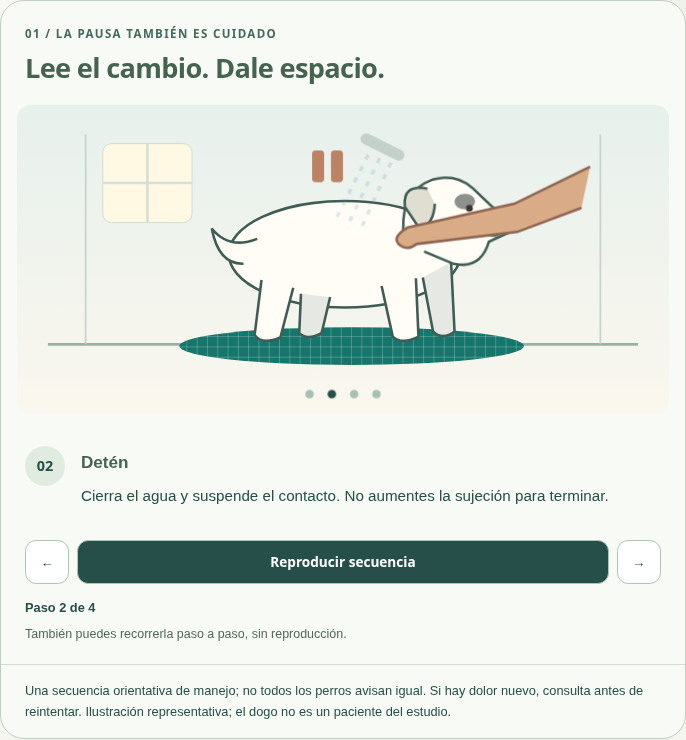
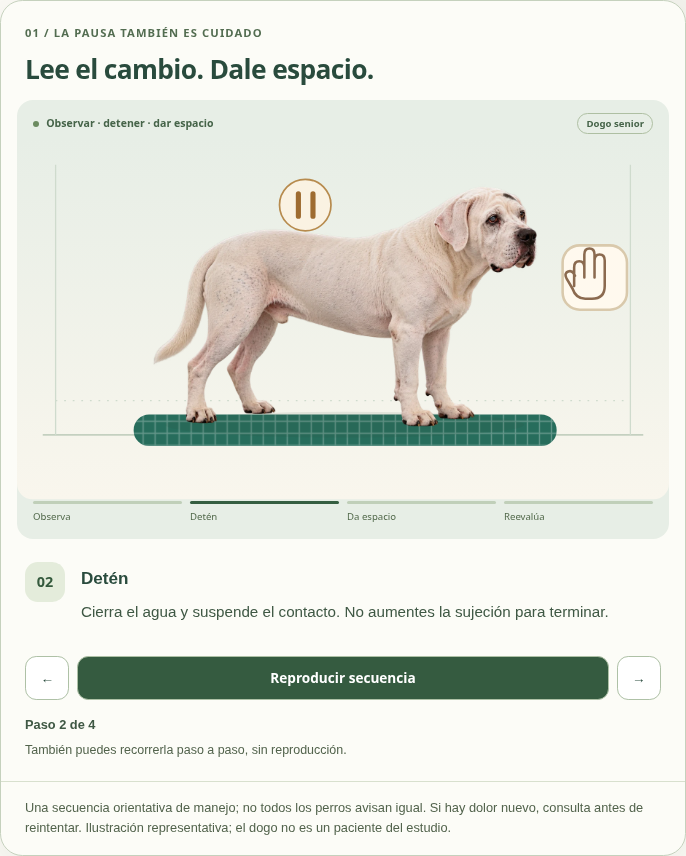
fix(content): mostrar dogo senior y mejorar animaciones del baño

diff --git a/briefings/briefing-banar-perro-viejo-movilidad-reducida.md b/briefings/briefing-banar-perro-viejo-movilidad-reducida.md
@@ -32,7 +32,7 @@ seoTitle: "Cómo bañar a un perro viejo con movilidad reducida"
 metaDescription: "Cómo adaptar el baño de un perro mayor con movilidad reducida, reconocer cuándo parar y elegir alternativas de aseo con ayuda veterinaria."
 pilar: "higiene-hogar-perros-senior"
 keywordPrincipal: "cómo bañar a un perro viejo"
-heroImage: "/images/blog/banar-perro-viejo-movilidad-reducida/bano-dogo-argentino-senior-antideslizante.webp"
+heroImage: "/images/blog/banar-perro-viejo-movilidad-reducida/bano-dogo-argentino-senior-antideslizante-v2.webp"
 heroImageAlt: "Dogo argentino senior blanco, de orejas naturales y pequeña mancha gris sobre el ojo izquierdo, ilustrado de pie sobre una alfombra antideslizante dentro de una ducha a ras de suelo, siendo enjuagado con agua templada"
 status: "Publicado"
 datePublished: "2026-10-15"
@@ -248,24 +248,24 @@ datePublished: "2026-10-15"
 ## 8. GUÍA VISUAL — 3 PROMPTS DE IMAGEN
 
 > [!IMPORTANT]
-> **Sujeto fijo en los 3 prompts:** `dogo argentino senior blanco, orejas naturales, nariz negra, ojos marrones, pequeña mancha gris sobre el ojo izquierdo`. Debe nombrarse explícitamente en **cada uno** de los tres prompts, como sujeto ilustrativo, sin atribuirlo a los pacientes de la serie.
+> **Sujeto fijo en los 3 prompts:** `dogo argentino claramente anciano (13–14 años ilustrativos), pelaje blanco marfil fino, orejas naturales, nariz negra, ojos marrones con leve veladura, frente arrugada, belfos caídos y menor tono muscular, pequeña mancha gris sobre el ojo izquierdo`. Debe nombrarse explícitamente en **cada uno** de los tres prompts, como sujeto ilustrativo, sin atribuirlo a los pacientes de la serie.
 
 > [!WARNING]
 > **Restricción de contenido visual:** ninguna imagen debe mostrar al perro forcejeando, resbalando, con signos de angustia evidente ni sujetado con fuerza. Se representa la **técnica correcta**, en la que el perro está estable y tranquilo.
 
 ### Imagen 1 — Resolutiva (hero)
-*   **Nombre de archivo SEO:** `bano-dogo-argentino-senior-antideslizante.webp`
-*   **Prompt visual:** Plano medio lateral, cámara a la altura del perro | Cuarto de baño doméstico real con ducha a ras de suelo y una esterilla antideslizante de goma bien visible bajo las patas | Un **dogo argentino senior blanco, orejas naturales, nariz negra, ojos marrones, pequeña mancha gris sobre el ojo izquierdo**, de pie y **estable**, siendo enjuagado con un chorro suave pegado al cuerpo por las manos de una mujer de unos 55 años, con una mano apoyada en su costado | Luz natural entrando por una ventana pequeña del baño, cálida y difusa | Profundidad de campo estrecha, foco en las patas sobre la esterilla | Textura de la goma antideslizante y del pelaje mojado | Estilo fotoperiodístico instructivo, perro tranquilo, cero apariencia de banco de imágenes.
+*   **Nombre de archivo SEO:** `bano-dogo-argentino-senior-antideslizante-v2.webp`
+*   **Prompt visual:** Plano medio lateral, cámara a la altura del perro | Cuarto de baño doméstico real con ducha a ras de suelo y una esterilla antideslizante de goma bien visible bajo las patas | Un **dogo argentino claramente anciano (13–14 años ilustrativos), pelaje blanco marfil fino, orejas naturales, nariz negra, ojos marrones con leve veladura, frente arrugada, belfos caídos y menor tono muscular, pequeña mancha gris sobre el ojo izquierdo**, de pie y **estable**, siendo enjuagado con un chorro suave pegado al cuerpo por las manos de una mujer de unos 55 años, con una mano apoyada en su costado | Luz natural entrando por una ventana pequeña del baño, cálida y difusa | Profundidad de campo estrecha, foco en las patas sobre la esterilla | Textura de la goma antideslizante y del pelaje mojado | Estilo fotoperiodístico instructivo, perro tranquilo, cero apariencia de banco de imágenes.
 *   **Caption:** La esterilla antideslizante es la medida más importante del baño: un perro artrósico que resbala una vez puede tener dificultades de apoyo; no se afirma una duración de miedo.
 
 ### Imagen 2 — Educativa
-*   **Nombre de archivo SEO:** `aseo-por-zonas-perro-mayor-tumbado.webp`
-*   **Prompt visual:** Plano medio, cámara a ras de suelo | Salón doméstico, perro tumbado sobre una toalla extendida encima de su cama | El mismo **dogo argentino senior blanco, orejas naturales, nariz negra, ojos marrones, pequeña mancha gris sobre el ojo izquierdo**, tumbado y relajado mientras unas manos limpian con una toalla húmeda la zona de la pata delantera, **sin levantarlo ni moverlo de sitio** | Luz natural cálida de tarde | Profundidad de campo estrecha, foco en la toalla y la pata | Textura de la toalla y del pelaje | Estilo fotoperiodístico instructivo, gesto suave, perro visiblemente cómodo.
+*   **Nombre de archivo SEO:** `aseo-por-zonas-perro-mayor-tumbado-v2.webp`
+*   **Prompt visual:** Plano medio, cámara a ras de suelo | Salón doméstico, perro tumbado sobre una toalla extendida encima de su cama | El mismo **dogo argentino claramente anciano (13–14 años ilustrativos), pelaje blanco marfil fino, orejas naturales, nariz negra, ojos marrones con leve veladura, frente arrugada, belfos caídos y menor tono muscular, pequeña mancha gris sobre el ojo izquierdo**, tumbado y relajado mientras unas manos limpian con una toalla húmeda la zona de la pata delantera, **sin levantarlo ni moverlo de sitio** | Luz natural cálida de tarde | Profundidad de campo estrecha, foco en la toalla y la pata | Textura de la toalla y del pelaje | Estilo fotoperiodístico instructivo, gesto suave, perro visiblemente cómodo.
 *   **Caption:** Cuando el perro ya no aguanta de pie, el aseo por zonas con él tumbado sustituye buena parte del baño completo.
 
 ### Imagen 3 — Emocional
-*   **Nombre de archivo SEO:** `secado-toalla-perro-senior-tranquilo.webp`
-*   **Prompt visual:** Plano medio corto, cámara a la altura del perro | Cuarto de baño doméstico, perro recién salido de la ducha sobre una alfombra gruesa | El mismo **dogo argentino senior blanco, orejas naturales, nariz negra, ojos marrones, pequeña mancha gris sobre el ojo izquierdo**, envuelto en una toalla grande de microfibra, con los ojos entrecerrados y el cuerpo relajado, mientras unas manos secan a toques la zona del cuello | Luz natural cálida y difusa | Profundidad de campo estrecha, foco en la cara del perro | Textura de la microfibra y del pelaje mojado | Estilo fotoperiodístico íntimo, calma evidente, sin pose ni miradas a cámara.
+*   **Nombre de archivo SEO:** `secado-toalla-perro-senior-tranquilo-v2.webp`
+*   **Prompt visual:** Plano medio corto, cámara a la altura del perro | Cuarto de baño doméstico, perro recién salido de la ducha sobre una alfombra gruesa | El mismo **dogo argentino claramente anciano (13–14 años ilustrativos), pelaje blanco marfil fino, orejas naturales, nariz negra, ojos marrones con leve veladura, frente arrugada, belfos caídos y menor tono muscular, pequeña mancha gris sobre el ojo izquierdo**, envuelto en una toalla grande de microfibra, con los ojos entrecerrados y el cuerpo relajado, mientras unas manos secan a toques la zona del cuello | Luz natural cálida y difusa | Profundidad de campo estrecha, foco en la cara del perro | Textura de la microfibra y del pelaje mojado | Estilo fotoperiodístico íntimo, calma evidente, sin pose ni miradas a cámara.
 *   **Caption:** El objetivo no es un baño perfecto: es que el perro salga limpio, seco y sin haber pasado miedo.
 
 ---
@@ -347,3 +347,8 @@ Entre **6.000 y 6.500 palabras** de texto visible (target 6.300); cada bloque ma
 - Warning (H2-4): sin medicación extra ni champús humanos/medicados improvisados; si se interrumpe con champú, no forzar ni dejar residuos sin un plan: retirar solo si es seguro y solicitar orientación veterinaria si no es posible.
 
 **Cambio autorizado por el usuario:** corrección y nueva revisión en esta sesión, máximo tres iteraciones, seguidas de redacción. Esta revisión será una autoverificación documentada; no se presentará como auditoría externa independiente.
+
+
+## 12. REVISIÓN VISUAL SOLICITADA — 2026-10-15
+
+El usuario rechazó la apariencia joven de las imágenes y la anatomía simplificada del perro de las animaciones. Sustituir las tres escenas por versiones `-v2`, derivadas de una misma referencia visiblemente anciana. Las animaciones reutilizan un recorte realista con transparencia de ese mismo dogo (`dogo-argentino-senior-perfil.webp`); se elimina la silueta vectorial anterior. Mantener controles y contenido educativo. Los títulos y textos destacados de las tarjetas deben conservar contraste sobre su fondo claro también cuando el sitio está en modo oscuro.

diff --git a/docs/contenido/banar-perro-viejo-movilidad-reducida/revision-visual.md b/docs/contenido/banar-perro-viejo-movilidad-reducida/revision-visual.md
@@ -1,0 +1,25 @@
+# Revisión visual solicitada — 15 de octubre de 2026
+
+El usuario señaló dos fallos de la entrega: el perro dibujado en las animaciones no tenía una anatomía convincente y el dogo de las tres escenas no parecía suficientemente senior. Su captura mostró además pérdida de contraste en títulos y destacados al usar modo oscuro.
+
+## Ajustes
+
+- Las tres escenas se regeneran a partir de una misma referencia envejecida: frente más arrugada, belfos caídos, expresión anciana, pelo marfil menos brillante y menor tono muscular. Se conservan orejas naturales y marca sobre el ojo izquierdo. Es un sujeto ilustrativo, no un paciente de los estudios ni una imagen que permita diagnosticar una enfermedad.
+- Las escenas tienen nombres `-v2` y sus tamaños 1200/800/400 para evitar que la caché de imágenes (30 días en `_headers`) conserve la apariencia anterior. Las versiones históricas se preservan para enlaces antiguos.
+- La silueta dibujada con elipses y trazos se sustituye por un recorte realista con transparencia del mismo dogo senior. Se utiliza en las tres secuencias con las mismas proporciones anatómicas.
+- Se rediseñan el entorno, iconos, indicadores de progreso y mapa corporal. Se mantienen las acciones didácticas: detener el agua, retirar el contacto, preparar el espacio y recorrer las zonas externas.
+- Se fijan colores locales de títulos y destacados sobre el fondo claro de las tarjetas, también en modo oscuro, sin modificar los estilos globales. La corrección incluye las dos infografías.
+
+## Comprobación
+
+- Inspección visual de las cuatro imágenes generadas y capturas en móvil oscuro y escritorio.
+- Chromium a 390×844, modo claro y oscuro: sin desbordamiento horizontal; contraste mínimo 8,18:1 en los títulos/destacados de animaciones e infografías.
+- Las tres secuencias conservan avance/retroceso con teclado, reproducción, pausa y avance temporizado.
+- Movimiento reducido: sin transiciones; reproducción automática deshabilitada y avance manual disponible.
+- Sin JavaScript: doce pasos visibles y controles ocultos.
+- Tres imágenes de artículo y recorte de las secuencias cargados correctamente; sin errores JavaScript.
+- `npx astro build`: correcto, incluida la proyección Markdown del sitio.
+- `npx astro check`: 0 errores, 0 advertencias; hints existentes del proyecto.
+- `git diff --check`: correcto.
+
+El contenido clínico y los recursos de Reserva Personal no se modifican. El brief se actualiza para conservar la nueva especificación visual.
